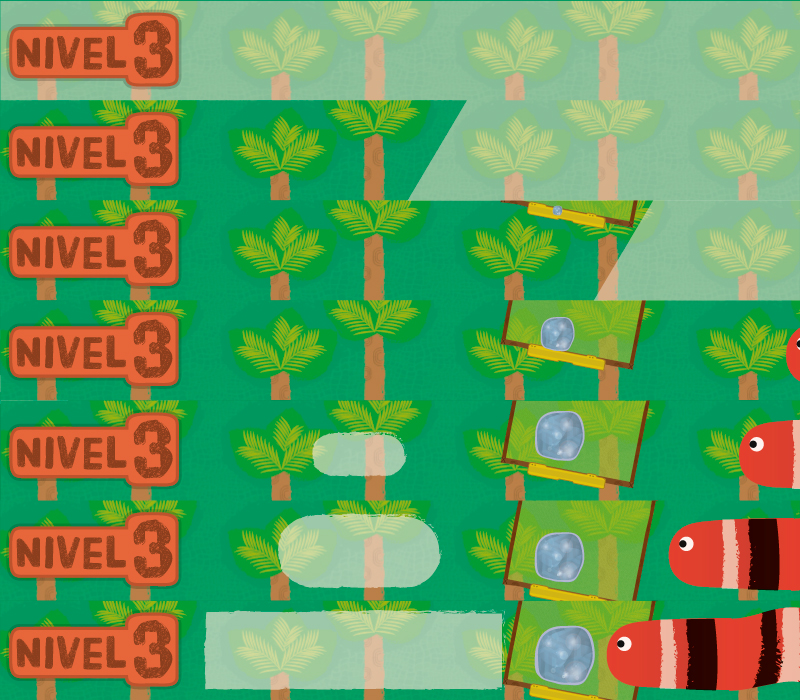
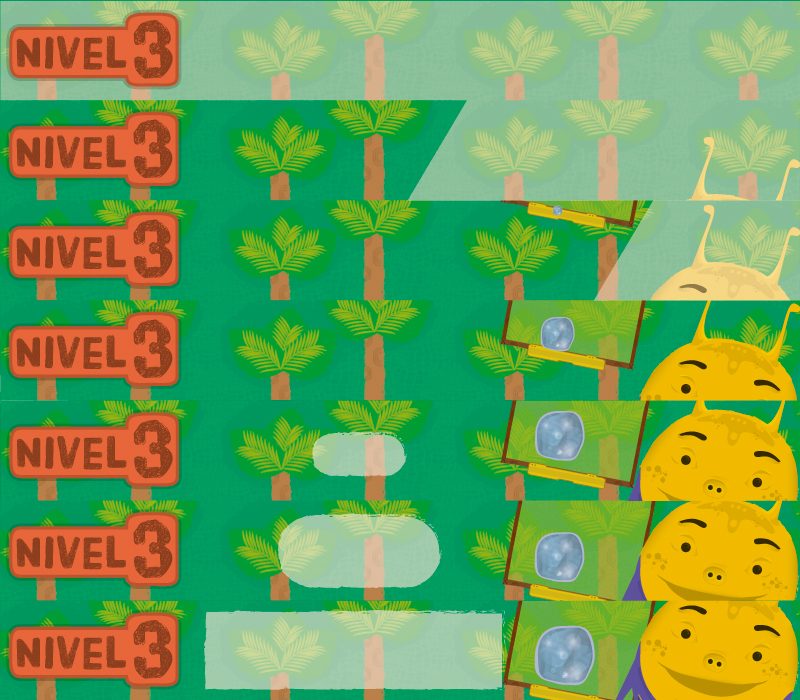
nuevas imagenes

Changed region(s): [[0.75, 0.18, 1.0, 1.0], [0.9688, 0.21, 1.0, 0.3]]

diff --git a/dist/js/game.js b/dist/js/game.js
@@ -1439,7 +1439,7 @@ module.exports = Menu;
       this.situaLength = this.levelData.dataGusano.length;//Cantidad de situaciones de nivel
 
       this.game.world.setBounds(0, 0, 800, 600);//Limites de escenario
-      this.introImg = this.game.add.tileSprite(0, 0,800,600, 'introN1');//Imagen intro de juego
+      this.introImg = this.game.add.tileSprite(0, 0,800,600, 'introN3');//Imagen intro de juego
       this.game.input.onDown.add(this.iniciarJuego,this);
       this.game.add.bitmapText(60, 150, 'font', 'Bienvenido,', 24);
     },
@@ -1827,7 +1827,7 @@ module.exports = Menu;
       this.situaLength = this.levelData.dataGusano.length;//Cantidad de situaciones de nivel
 
       this.game.world.setBounds(0, 0, 800, 600);//Limites de escenario
-      this.introImg = this.game.add.tileSprite(0, 0,800,600, 'introN1');//Imagen intro de juego
+      this.introImg = this.game.add.tileSprite(0, 0,800,600, 'introN4');//Imagen intro de juego
       this.game.input.onDown.add(this.iniciarJuego,this);
       this.game.add.bitmapText(60, 150, 'font', 'Bienvenido,', 24);
     },
@@ -2745,7 +2745,7 @@ module.exports = Menu;
   Play.prototype = {
     create: function() {
       this.btns = this.game.add.group();
-      this.crearBoton(0,0,'nivel1',195,50,'');
+      this.crearBoton(0,0,'nivel1',200,50,'Hola!, en este nivel aprenderas');
       this.crearBoton(0,100,'nivel2',305,150,'');
       this.crearBoton(0,200,'nivel3',205,250,'');
       this.crearBoton(0,300,'nivel4',310,350,'');
@@ -2871,6 +2871,7 @@ Preload.prototype = {
     this.load.text('data2','assets/data/nivel2.json');//Datos nivel 2
 
     /*Imagenes nivel 3*/
+    this.load.image('introN3','assets/images/Nivel3/intro.jpg');
     this.load.image('tile_nivel3','assets/images/Nivel3/tile.jpg');
     this.load.spritesheet('gusano','assets/images/Nivel3/gusano.png',50,50);
     this.load.image('itemGusano','assets/images/Nivel3/item.png');
@@ -2880,6 +2881,7 @@ Preload.prototype = {
     this.load.text('data3','assets/data/nivel3.json');//Datos nivel 3
     
     /*Imagenes nivel 4*/
+    this.load.image('introN4','assets/images/Nivel4/intro.jpg');
     this.load.image('tile_nivel4','assets/images/Nivel4/tile.jpg');
     this.load.spritesheet('gusano_4','assets/images/Nivel4/gusano.png',50,50);
     this.load.image('tablero_4','assets/images/Nivel4/tablero_4.png');

diff --git a/game/states/preload.js b/game/states/preload.js
@@ -69,6 +69,7 @@ Preload.prototype = {
     this.load.text('data2','assets/data/nivel2.json');//Datos nivel 2
 
     /*Imagenes nivel 3*/
+    this.load.image('introN3','assets/images/Nivel3/intro.jpg');
     this.load.image('tile_nivel3','assets/images/Nivel3/tile.jpg');
     this.load.spritesheet('gusano','assets/images/Nivel3/gusano.png',50,50);
     this.load.image('itemGusano','assets/images/Nivel3/item.png');
@@ -78,6 +79,7 @@ Preload.prototype = {
     this.load.text('data3','assets/data/nivel3.json');//Datos nivel 3
     
     /*Imagenes nivel 4*/
+    this.load.image('introN4','assets/images/Nivel4/intro.jpg');
     this.load.image('tile_nivel4','assets/images/Nivel4/tile.jpg');
     this.load.spritesheet('gusano_4','assets/images/Nivel4/gusano.png',50,50);
     this.load.image('tablero_4','assets/images/Nivel4/tablero_4.png');

diff --git a/game/states/nivel3.js b/game/states/nivel3.js
@@ -43,7 +43,7 @@
       this.situaLength = this.levelData.dataGusano.length;//Cantidad de situaciones de nivel
 
       this.game.world.setBounds(0, 0, 800, 600);//Limites de escenario
-      this.introImg = this.game.add.tileSprite(0, 0,800,600, 'introN1');//Imagen intro de juego
+      this.introImg = this.game.add.tileSprite(0, 0,800,600, 'introN3');//Imagen intro de juego
       this.game.input.onDown.add(this.iniciarJuego,this);
       this.game.add.bitmapText(60, 150, 'font', 'Bienvenido,', 24);
     },

diff --git a/game/states/nivel4.js b/game/states/nivel4.js
@@ -45,7 +45,7 @@
       this.situaLength = this.levelData.dataGusano.length;//Cantidad de situaciones de nivel
 
       this.game.world.setBounds(0, 0, 800, 600);//Limites de escenario
-      this.introImg = this.game.add.tileSprite(0, 0,800,600, 'introN1');//Imagen intro de juego
+      this.introImg = this.game.add.tileSprite(0, 0,800,600, 'introN4');//Imagen intro de juego
       this.game.input.onDown.add(this.iniciarJuego,this);
       this.game.add.bitmapText(60, 150, 'font', 'Bienvenido,', 24);
     },

diff --git a/game/states/play.js b/game/states/play.js
@@ -3,7 +3,7 @@
   Play.prototype = {
     create: function() {
       this.btns = this.game.add.group();
-      this.crearBoton(0,0,'nivel1',195,50,'');
+      this.crearBoton(0,0,'nivel1',200,50,'Hola!, en este nivel aprenderas');
       this.crearBoton(0,100,'nivel2',305,150,'');
       this.crearBoton(0,200,'nivel3',205,250,'');
       this.crearBoton(0,300,'nivel4',310,350,'');
